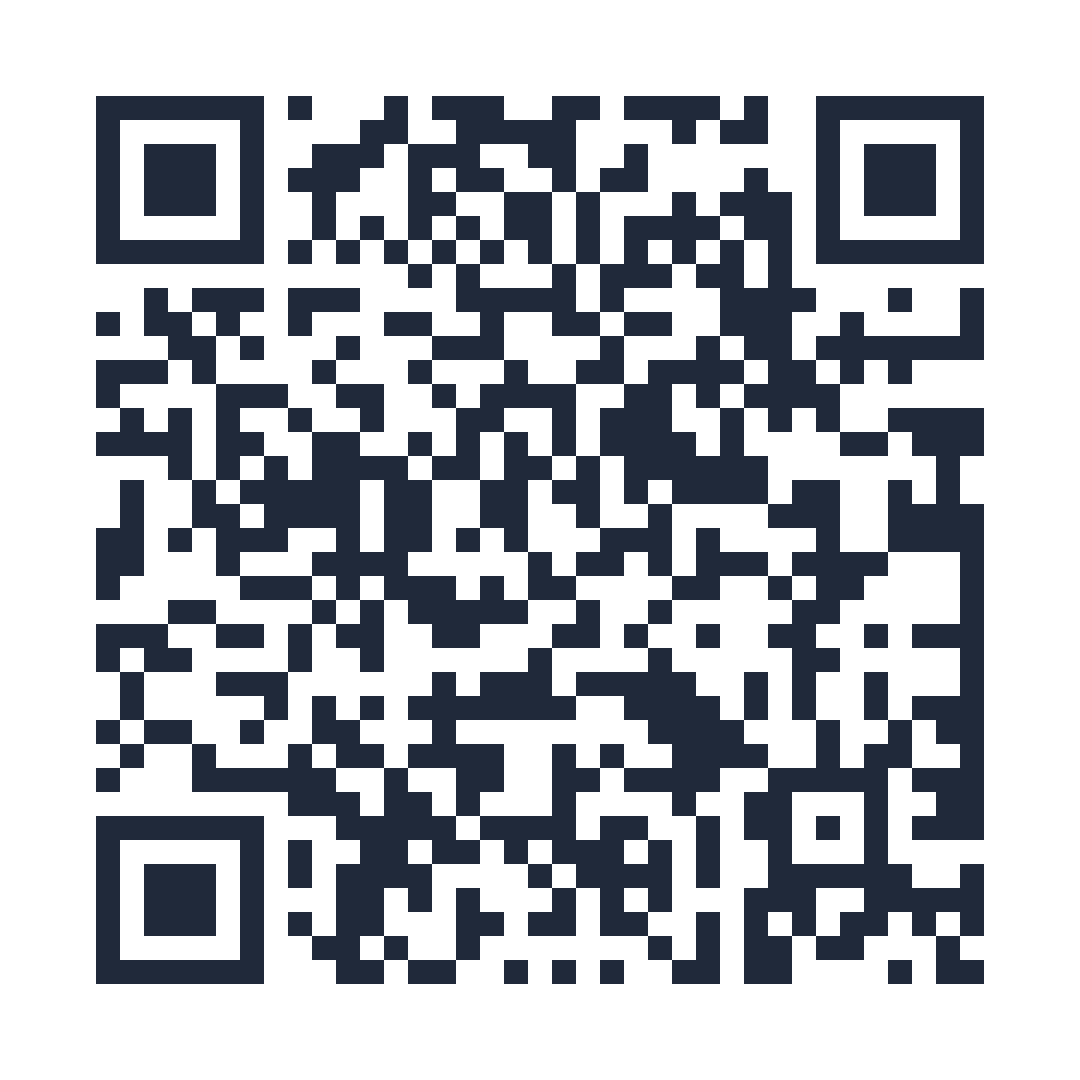
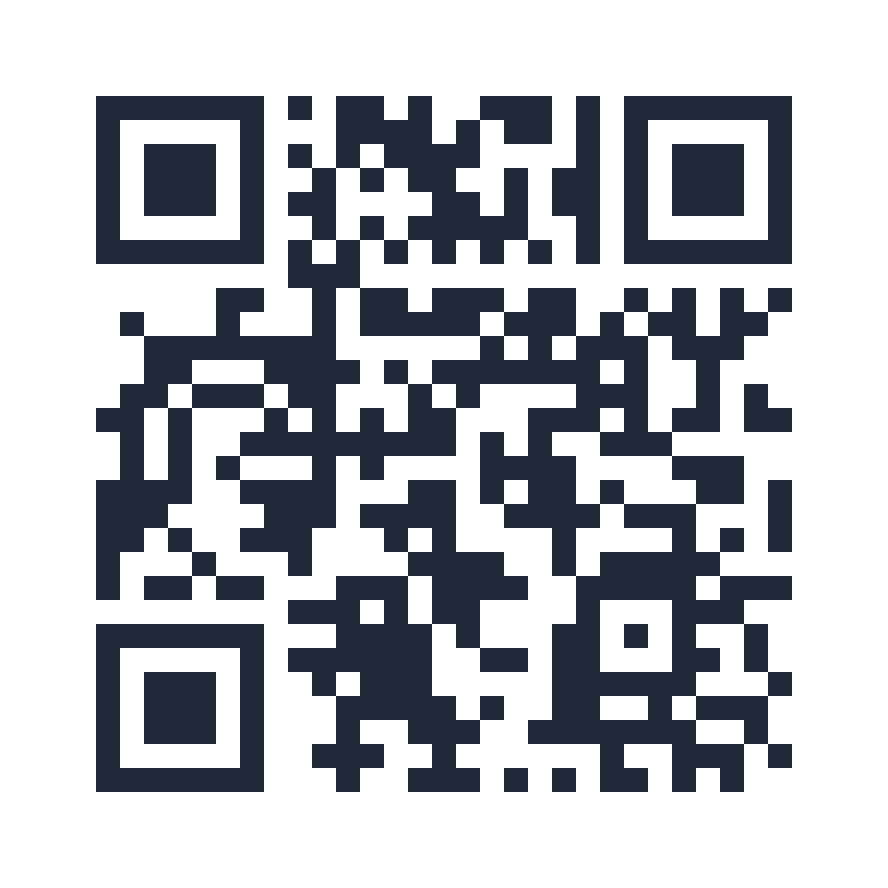
added  more content

diff --git a/index.html b/index.html
@@ -15,17 +15,17 @@
   <meta property="og:type" content="website" />
   <meta property="og:title" content="SENSE & NIDCAP — מדריך להורי הפג" />
   <meta property="og:description" content="מדריך ידידותי להורי הפגייה: SENSE, 5S, סימני סטרס, ותוכנית שבועית לפי גיל הפג. עברית וערבית." />
-  <meta property="og:image" content="https://salihzinaty.github.io/nicu/og.jpg" />
+  <meta property="og:image" content="https://nicu.salehz.com/og.jpg" />
   <meta property="og:image:width" content="1200" />
   <meta property="og:image:height" content="630" />
-  <meta property="og:url" content="https://salihzinaty.github.io/nicu/" />
+  <meta property="og:url" content="https://nicu.salehz.com/" />
   <meta property="og:locale" content="he_IL" />
   <meta property="og:locale:alternate" content="ar" />
   <meta property="og:locale:alternate" content="ru" />
   <meta name="twitter:card" content="summary_large_image" />
   <meta name="twitter:title" content="SENSE & NIDCAP — מדריך להורי הפג" />
   <meta name="twitter:description" content="מדריך ידידותי להורי הפגייה." />
-  <meta name="twitter:image" content="https://salihzinaty.github.io/nicu/og.jpg" />
+  <meta name="twitter:image" content="https://nicu.salehz.com/og.jpg" />
 
   <link rel="preconnect" href="https://fonts.googleapis.com" />
   <link rel="preconnect" href="https://fonts.gstatic.com" crossorigin />
